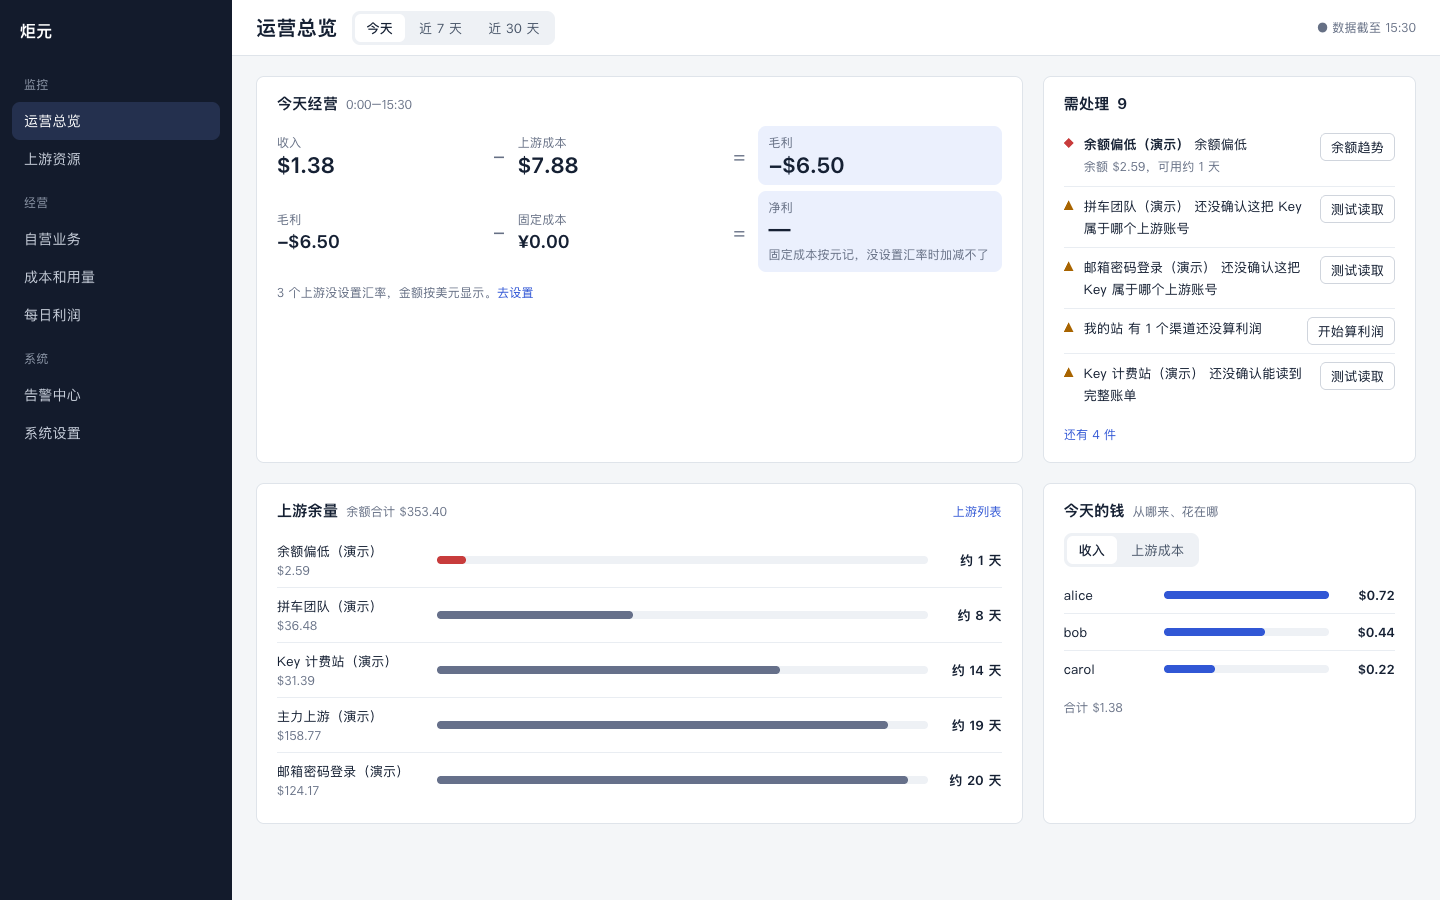
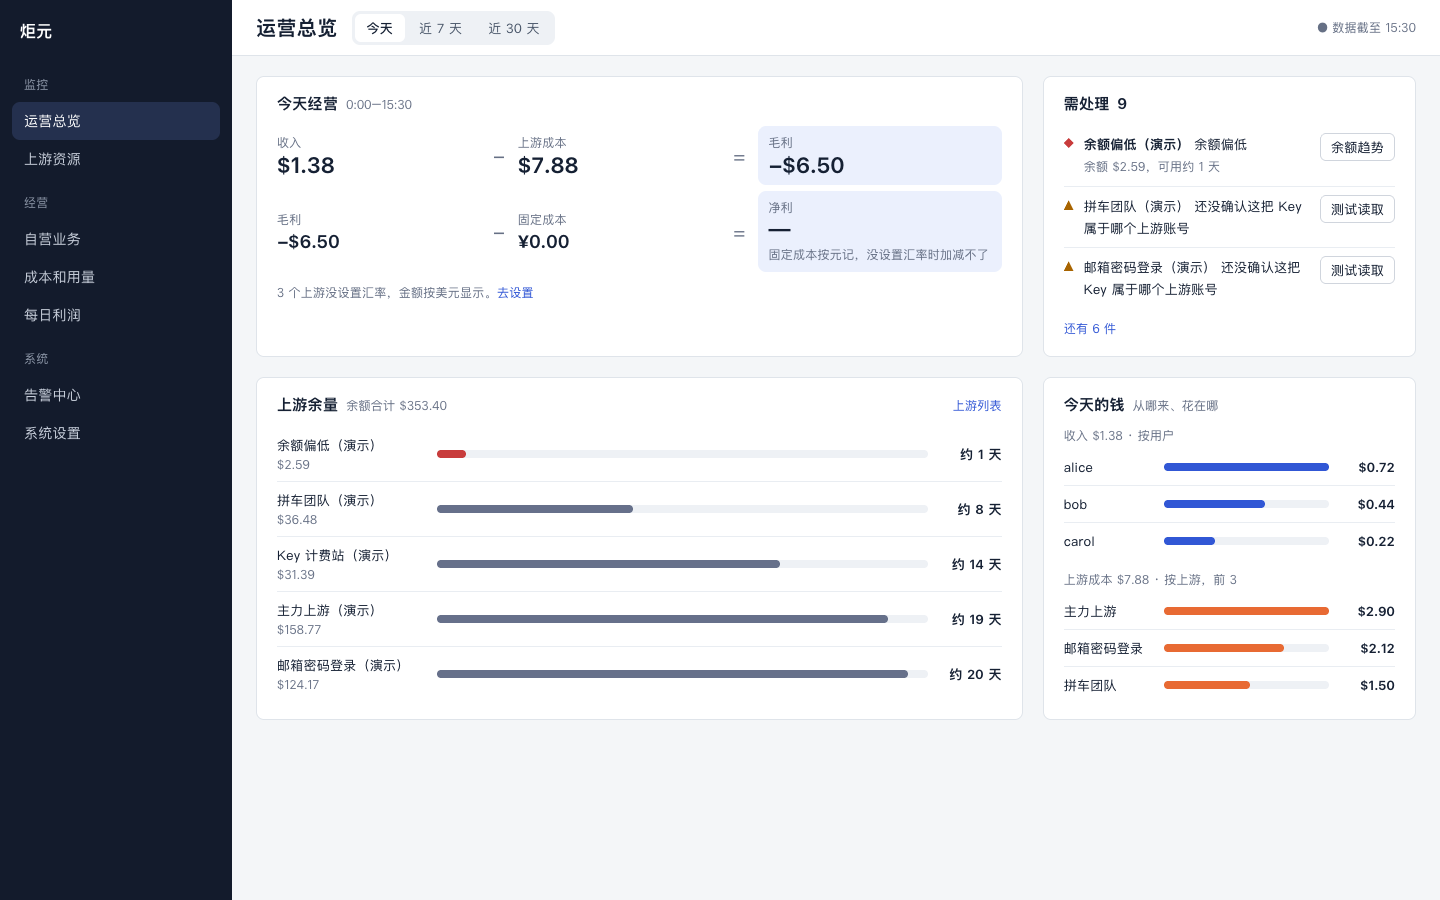
docs(ux): 运营总览样稿照 §1.4 新加的那条改——需处理按等式高度露 3 条、今天的钱改成收入和上游成本上下两小段，同一行两块底边接近

diff --git a/design/ux/page-layouts.html b/design/ux/page-layouts.html
@@ -247,19 +247,18 @@ a { color: var(--cobalt); text-decoration: none; }
   <symbol id="i-chev-d" viewBox="0 0 16 16"><path d="m4 6 4 4 4-4"/></symbol>
   <symbol id="i-chev" viewBox="0 0 16 16"><path d="m6 4 4 4-4 4"/></symbol>
 </svg>
-<p class="frame-label" style="width:1440px">L-A · 运营总览：等式 8 + 需处理 4；余量 8 + 今天的钱 4（收入、上游成本两个页签）；≈ 说明一行</p>
+<p class="frame-label" style="width:1440px">L-A · 运营总览：等式 8 + 需处理 4（按等式高度露 3 条）；余量 8 + 今天的钱 4（收入、上游成本上下两小段）；≈ 说明一行</p>
 <section class="frame" id="layout-home" style="width:1440px;height:900px"><div class="shell" style="height:900px"><aside class="sider"><b>炬元</b><div class="g">监控</div><div class="it on">运营总览</div><div class="it">上游资源</div><div class="g">经营</div><div class="it">自营业务</div><div class="it">成本和用量</div><div class="it">每日利润</div><div class="g">系统</div><div class="it">告警中心</div><div class="it">系统设置</div></aside><div class="main"><div class="top"><h1>运营总览</h1><span class="seg"><span class="on">今天</span><span>近 7 天</span><span>近 30 天</span></span><span class="spacer"></span><span class="caption">● 数据截至 15:30</span></div><div class="c"><div class="p s8"><h2>今天经营 <small>0:00–15:30</small></h2><div class="eqg"><div class="t"><span>收入</span><b>$1.38</b></div><div class="op">−</div><div class="t"><span>上游成本</span><b>$7.88</b></div><div class="op">=</div><div class="t res"><span>毛利</span><b>−$6.50</b></div>
 <div class="t"><span>毛利</span><b style="font-size:18px">−$6.50</b></div><div class="op">−</div><div class="t"><span>固定成本</span><b style="font-size:18px">¥0.00</b></div><div class="op">=</div><div class="t res"><span>净利</span><b>—</b><span>固定成本按元记，没设置汇率时加减不了</span></div></div>
 <div class="one">3 个上游没设置汇率，金额按美元显示。<a>去设置</a></div></div><div class="p s4"><h2>需处理 <span class="count">9</span></h2><ul class="att"><li><i class="cr"></i><div><b>余额偏低（演示）</b> 余额偏低<p>余额 $2.59，可用约 1 天</p></div><span class="btn sm">余额趋势</span></li>
 <li><i></i><div>拼车团队（演示） 还没确认这把 Key 属于哪个上游账号</div><span class="btn sm">测试读取</span></li>
 <li><i></i><div>邮箱密码登录（演示） 还没确认这把 Key 属于哪个上游账号</div><span class="btn sm">测试读取</span></li>
-<li><i></i><div>我的站 有 1 个渠道还没算利润</div><span class="btn sm">开始算利润</span></li>
-<li><i></i><div>Key 计费站（演示） 还没确认能读到完整账单</div><span class="btn sm">测试读取</span></li></ul><div class="one"><a>还有 4 件</a></div></div>
+</ul><div class="one"><a>还有 6 件</a></div></div>
 <div class="p s8"><h2>上游余量 <small>余额合计 $353.40</small><span class="r">上游列表</span></h2><ul class="bars"><li><span>余额偏低（演示）<span class="caption" style="display:block">$2.59</span></span><span class="tr"><i class="red" style="width:6%"></i></span><b>约 1 天</b></li>
 <li><span>拼车团队（演示）<span class="caption" style="display:block">$36.48</span></span><span class="tr"><i style="width:40%"></i></span><b>约 8 天</b></li>
 <li><span>Key 计费站（演示）<span class="caption" style="display:block">$31.39</span></span><span class="tr"><i style="width:70%"></i></span><b>约 14 天</b></li>
 <li><span>主力上游（演示）<span class="caption" style="display:block">$158.77</span></span><span class="tr"><i style="width:92%"></i></span><b>约 19 天</b></li>
-<li><span>邮箱密码登录（演示）<span class="caption" style="display:block">$124.17</span></span><span class="tr"><i style="width:96%"></i></span><b>约 20 天</b></li></ul></div><div class="p s4"><h2>今天的钱 <small>从哪来、花在哪</small></h2><div class="seg" style="margin-bottom:10px"><span class="on">收入</span><span>上游成本</span></div><ul class="bars hb"><li><span>alice</span><span class="tr"><i style="width:100%"></i></span><b>$0.72</b></li><li><span>bob</span><span class="tr"><i style="width:61%"></i></span><b>$0.44</b></li><li><span>carol</span><span class="tr"><i style="width:31%"></i></span><b>$0.22</b></li></ul><div class="one">合计 $1.38</div></div></div></div></div></section>
+<li><span>邮箱密码登录（演示）<span class="caption" style="display:block">$124.17</span></span><span class="tr"><i style="width:96%"></i></span><b>约 20 天</b></li></ul></div><div class="p s4"><h2>今天的钱 <small>从哪来、花在哪</small></h2><div class="caption" style="margin-bottom:4px">收入 $1.38 · 按用户</div><ul class="bars hb"><li><span>alice</span><span class="tr"><i style="width:100%"></i></span><b>$0.72</b></li><li><span>bob</span><span class="tr"><i style="width:61%"></i></span><b>$0.44</b></li><li><span>carol</span><span class="tr"><i style="width:31%"></i></span><b>$0.22</b></li></ul><div class="caption" style="margin:12px 0 4px">上游成本 $7.88 · 按上游，前 3</div><ul class="bars hb or"><li><span>主力上游</span><span class="tr"><i style="width:100%"></i></span><b>$2.90</b></li><li><span>邮箱密码登录</span><span class="tr"><i style="width:73%"></i></span><b>$2.12</b></li><li><span>拼车团队</span><span class="tr"><i style="width:52%"></i></span><b>$1.50</b></li></ul></div></div></div></div></section>
 <p class="frame-label" style="width:1440px">L-B · 上游列表：一行两行字、行高 56，一屏 10 行；去掉「数据截至」列，状态列只放状态；自营站点不在这里</p>
 <section class="frame" id="layout-stations" style="width:1440px;height:900px"><div class="shell" style="height:900px"><aside class="sider"><b>炬元</b><div class="g">监控</div><div class="it">运营总览</div><div class="it on">上游资源</div><div class="g">经营</div><div class="it">自营业务</div><div class="it">成本和用量</div><div class="it">每日利润</div><div class="g">系统</div><div class="it">告警中心</div><div class="it">系统设置</div></aside><div class="main"><div class="top"><h1>上游资源</h1><span class="spacer"></span><span class="caption">● 数据截至 15:30</span></div><div style="padding:16px 24px 0"><div class="tabs"><span class="on">上游列表</span><span>渠道绑定</span><span>上游账单</span></div></div>
 <div class="c"><div class="s12" style="display:flex;gap:10px;align-items:center"><div class="input" style="width:260px">搜索名称或地址</div><span class="seg"><span class="on">全部 10</span><span>需处理 4</span><span>已归档 0</span></span><span class="spacer"></span><span class="btn">记固定成本</span><span class="btn primary">加上游</span></div>

diff --git a/design/ux/page-layouts.md b/design/ux/page-layouts.md
@@ -61,8 +61,8 @@
 
 - 第一行：
   - 没做完「开始使用」时，清单在最上面（第一次使用）；
-  - 下面是等式 8 列 + 需处理 4 列并排。需处理先露 5 条，「还有 4 件」。
-- 第二行：上游余量 8 列 + 「今天的钱从哪来、花在哪」4 列。收入和上游成本合成一块，两个页签「收入 / 上游成本」，各列前 5。
+  - 下面是等式 8 列 + 需处理 4 列并排。需处理按等式那块的高度露 3 条，其余写「还有 6 件」，两块底边对齐（§1.4 第 3 条「同一行的两块高度要接近」）。
+- 第二行：上游余量 8 列 + 「今天的钱」4 列。收入、上游成本合成一块，上下两小段，各列前 3，和余量的五行差不多高（不用页签：页签会让一半的数藏起来，块又矮一截）。
 - ≈ 说明一行（G）。
 
 **手机**（样稿 L-A 手机）：
@@ -74,7 +74,7 @@
 | 改动 | 原则 | 大小 | 随哪个 PR |
 |---|---|---|---|
 | 等式 8 + 需处理 4 并排 | 1、2、3 | 改版式 | 版式 PR |
-| 收入、上游成本合成一块，两个页签 | 2、3 | 改版式 | 版式 PR |
+| 收入、上游成本合成一块，上下两小段各前 3 | 2、3 | 改版式 | 版式 PR |
 | ≈ 说明一行 | 4 | 只改样式 | G |
 | 开始使用清单 | §1.2 第 4 条 | 改结构 | 第一次使用 |
 | 需处理就地做完、数字处处一样 | §1.2 第 4、6 条 | 改结构 | E |
@@ -327,7 +327,7 @@
 1. **上游账单改成左右两栏**（第 4 节）：左边账号列表，右边选中的账号。
    - 推荐：改。账号多了以后，现在的一长串卡片要一直滚。
    - 另一种：保持一列，只把卡片压矮。
-2. **运营总览的收入、上游成本合成一块两个页签**（第 1 节）。
+2. **运营总览的收入、上游成本合成一块，上下两小段各前 3**（第 1 节）。
    - 推荐：合。各半行时，3 个用户那块下面空一大片。
 3. **自营业务的收入图只画收入**，上游成本挪到成本页、每日利润看（第 5 节）。
    - 推荐：只画收入。这一页回答「钱从哪来」，等式只放两处以后，这张图也跟着只说收入。
@@ -340,7 +340,7 @@
 
 1. 成本估算把「数字怎么来的」「没算进去的数据」，用量分析把「读不到的上游」收起来（只改样式）；
 2. 上游列表行高、状态列、「数据截至」列（只改样式、改版式）；
-3. 运营总览等式 8 + 需处理 4、收入成本合一块（改版式）；
+3. 运营总览等式 8 + 需处理 4（露 3 条）、收入成本合一块（改版式）；
 4. 自营业务两行 8 + 4（改版式）；
 5. 告警中心、系统设置两栏（改版式，等 #61 合并）。
 
